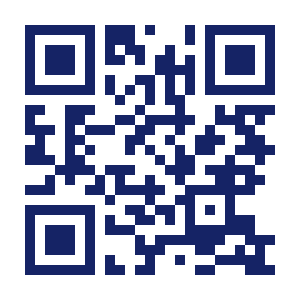
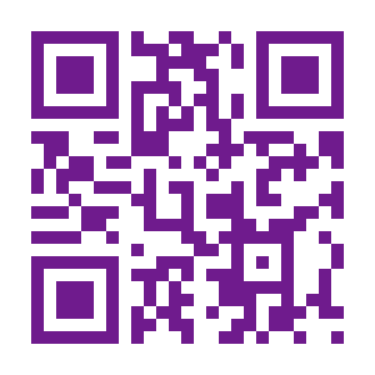
Tomo to Blackie, plus new QR code

diff --git a/public/index.html b/public/index.html
@@ -23,28 +23,12 @@
       work correctly both with client-side routing and a non-root public URL.
       Learn how to configure a non-root public URL by running `npm run build`.
     -->
-	<title>Tomo The Cat</title>
+	<title>Blackie The Cat</title>
 	<script src="https://telegram.org/js/telegram-web-app.js"></script>
 	<style></style>
-
-	<!-- Google tag (gtag.js) -->
-	<script async src="https://www.googletagmanager.com/gtag/js?id=G-JG615TPYBW"></script>
-	<script>(function (w, d, s, l, i) {
-			w[l] = w[l] || []; w[l].push({
-				'gtm.start':
-					new Date().getTime(), event: 'gtm.js'
-			}); var f = d.getElementsByTagName(s)[0],
-				j = d.createElement(s), dl = l != 'dataLayer' ? '&l=' + l : ''; j.async = true; j.src =
-					'https://www.googletagmanager.com/gtm.js?id=' + i + dl; f.parentNode.insertBefore(j, f)
-		})(window, document, 'script', 'dataLayer', 'GTM-MNL72R5F');</script>
-	<!-- End Google Tag Manager -->
 </head>
 
 <body>
-	<!-- Google Tag Manager (noscript) -->
-	<noscript><iframe src="https://www.googletagmanager.com/ns.html?id=GTM-MNL72R5F" height="0" width="0"
-			style="display:none;visibility:hidden"></iframe></noscript>
-	<!-- End Google Tag Manager (noscript) -->
 	<div class="viewport-border"></div>
 	<div class="viewport-stable_border"></div>
 

diff --git a/src/components/main.jsx b/src/components/main.jsx
@@ -1,5 +1,6 @@
 import AOS from 'aos';
 import { useContext, useEffect, useRef, useState } from 'react';
+import TelegramLinking from '../components/QRcode';
 import { GameInfoContext } from '../helpers/context';
 import sadIdle from '../img/1_idle.gif';
 import sadSpeak from '../img/1talk.gif';
@@ -123,26 +124,26 @@ const MainComponent = () => {
 	return (
 		<>
 			<>
-				{/* {!isMobileDevice ? (
+				{!isMobileDevice ? (
 					<TelegramLinking />
-				) : ( */}
-				<>
-					<Preloader loaded={preloaderLoaded} />
-					{user ? (
-						<>
-							<Header user={user} />
-							<main id='main' className='main'>
-								<Main user={user} />
-							</main>
-							<Footer user={user} />
-						</>
-					) : (
-						// <ComingSoon />
-						// <Maintenance />
-						<NotFound />
-					)}
-				</>
-				{/* )} */}
+				) : (
+					<>
+						<Preloader loaded={preloaderLoaded} />
+						{user ? (
+							<>
+								<Header user={user} />
+								<main id='main' className='main'>
+									<Main user={user} />
+								</main>
+								<Footer user={user} />
+							</>
+						) : (
+							// <ComingSoon />
+							// <Maintenance />
+							<NotFound />
+						)}
+					</>
+				)}
 			</>
 		</>
 	);

diff --git a/src/components/main/Main.jsx b/src/components/main/Main.jsx
@@ -554,7 +554,7 @@ const Main = ({ user }) => {
 										marginTop: '15px',
 									}}
 								>
-									Tomo is tired, come back when timer is over.
+									Blackie is tired, come back when timer is over.
 								</p>
 							</div>
 						) : (
